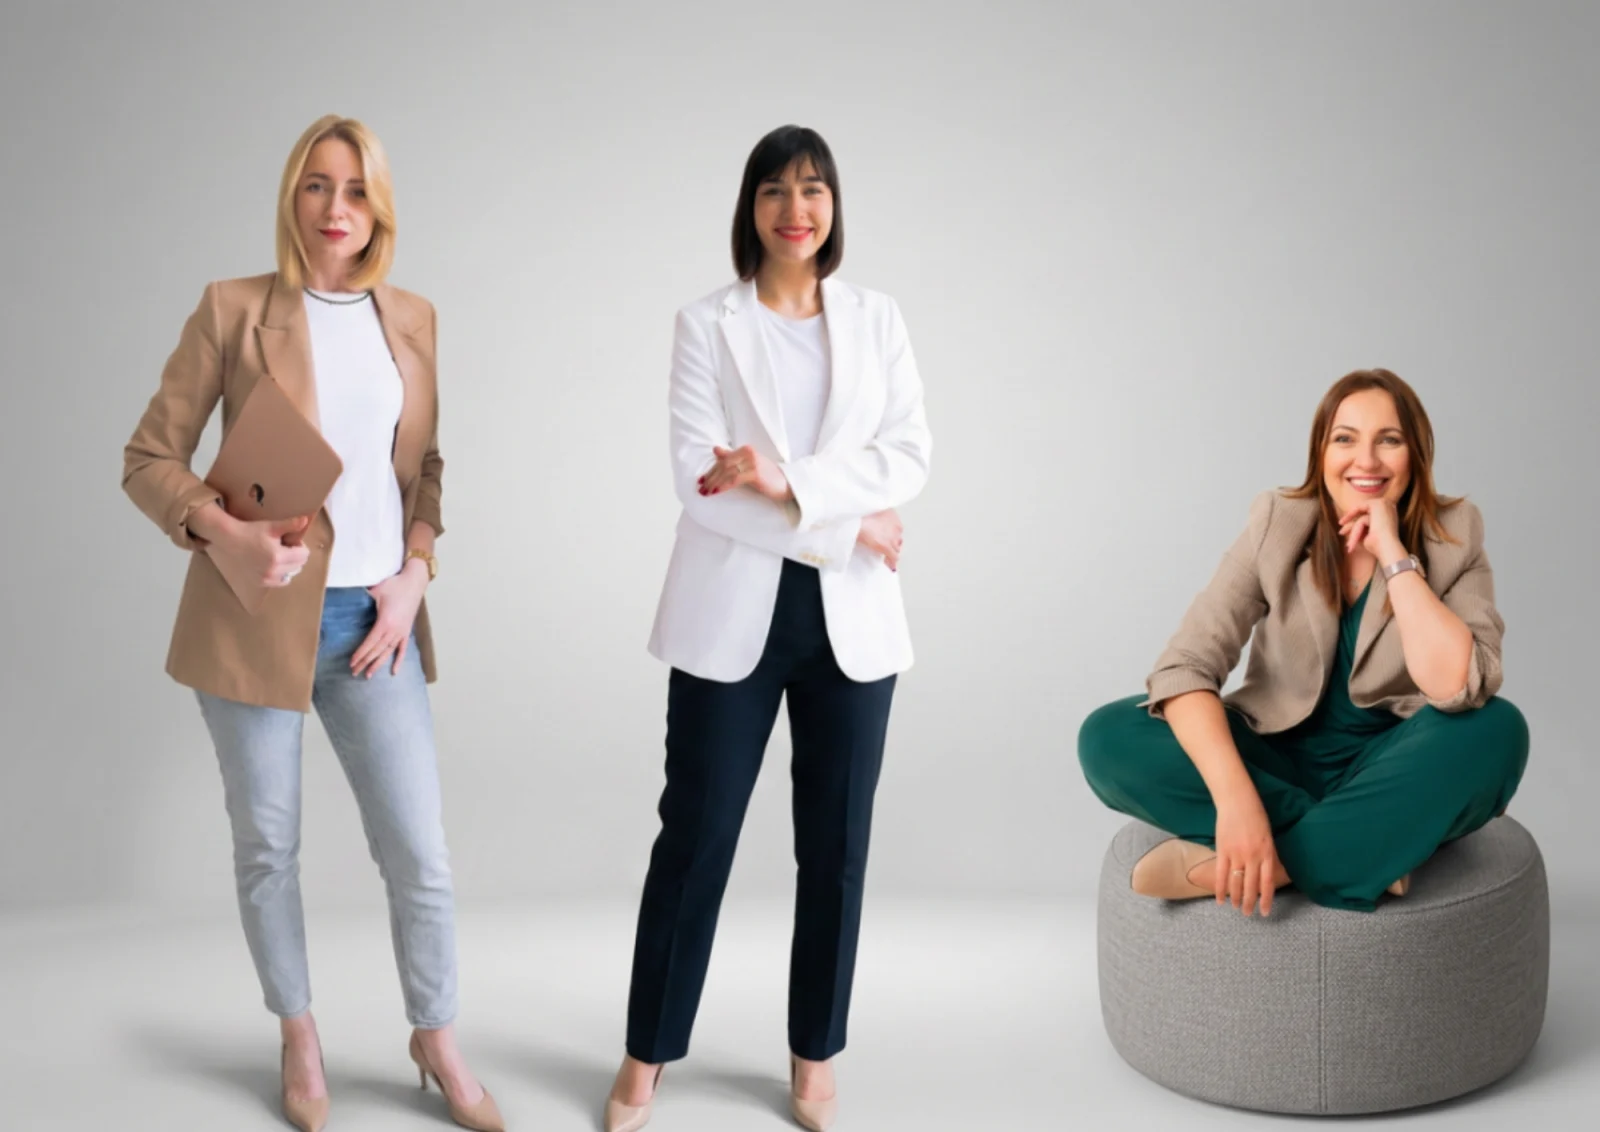
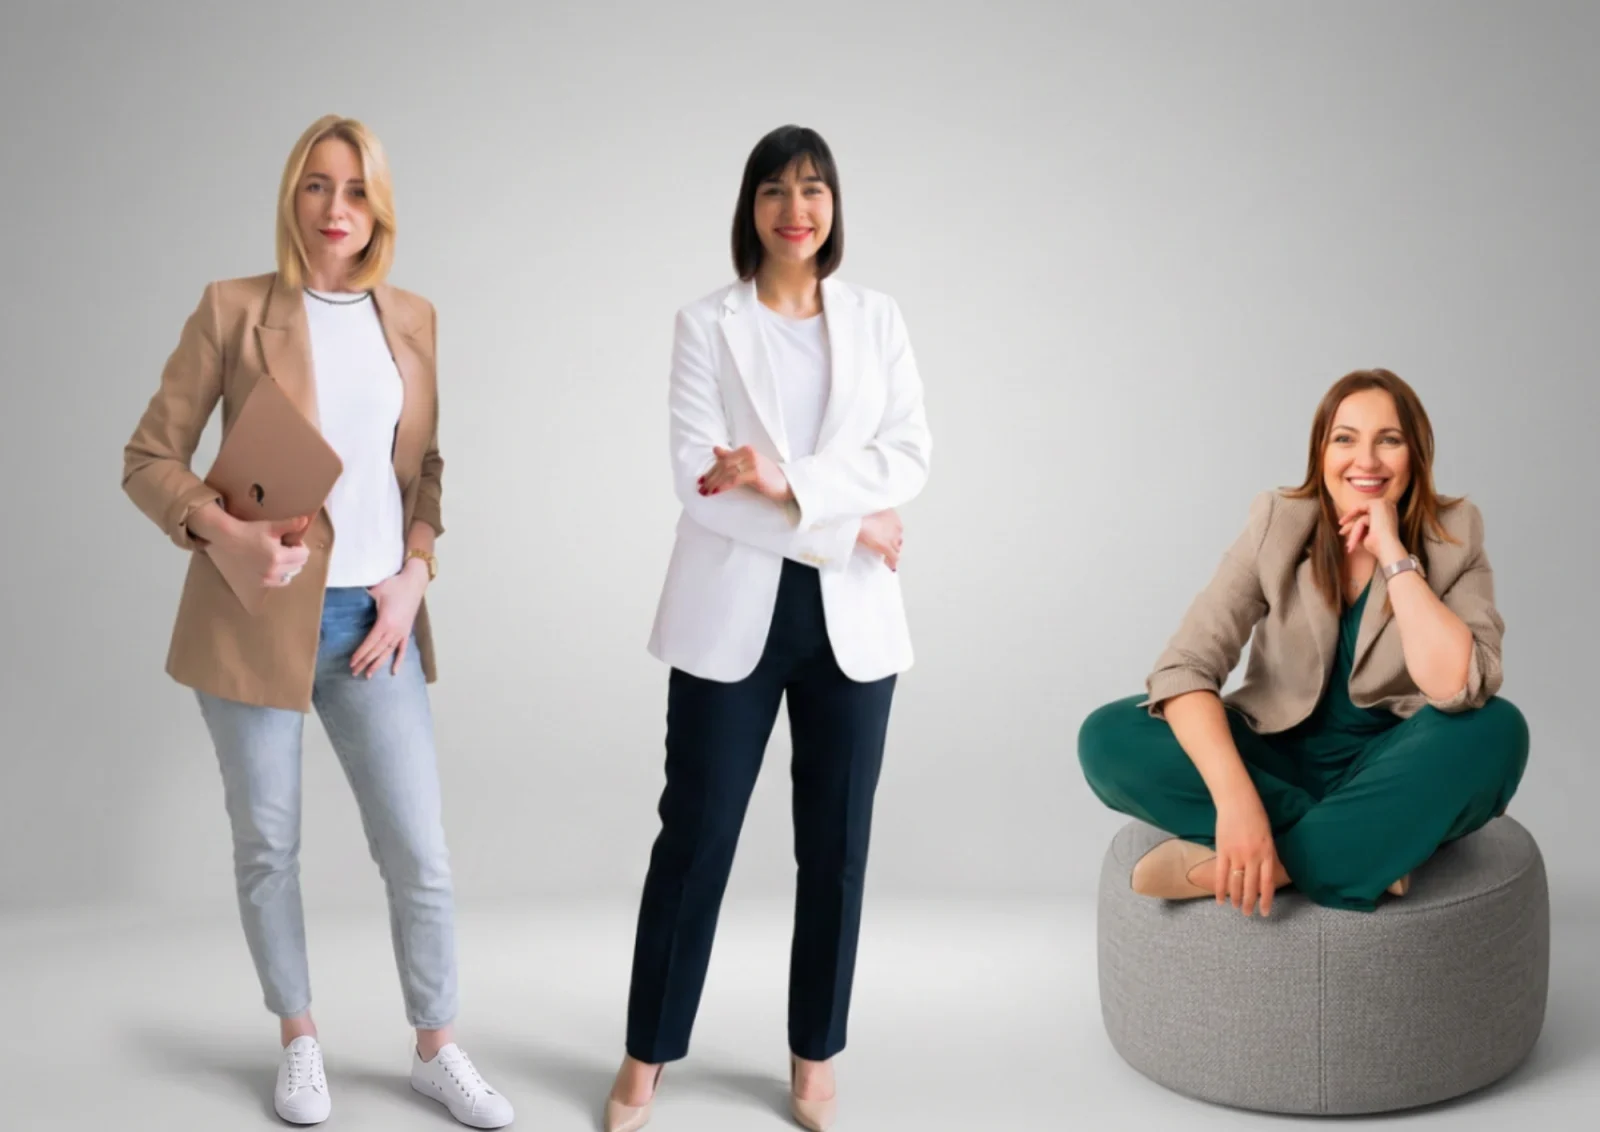
Poprawki Marty z 2.11 i 4.11: formy współpracy, cenniki, trampki Asi, podpisy zespołu
- Blok „Jak możemy współpracować?” między „Co zyskujesz?” a „W jakich obszarach działamy?”, nowe teksty Marty, link karty projektu do obszarów
- Usunięty „Model elastyczny” z cennika procesów HR
- Case study: „HR na godziny” zamienione na „Outsourcing HR”, cytat klienta bez zmian
- Sparing: nowy przypis o pakietach; rekrutacja: „4-10% rocznego wynagrodzenia”, karty cennika na telefonie mieszczą dłuższe wartości
- Zdjęcie zespołu: trampki zamiast szpilek u Joanny (Gemini, zmieniony tylko obszar butów)
- Podpisy zespołu: krycie liczone od sekcji; framer-motion 12 brał dla opacity natywny ScrollTimeline całej strony, więc podpisy zostawały wyszarzone

Changed region(s): [[0.1562, 0.8966, 0.3438, 1.0]]

diff --git a/src/data/services.ts b/src/data/services.ts
@@ -160,10 +160,10 @@ export const services: Service[] = [
           "Success fee",
         ],
         rows: [
-          ["Junior / mid", "3 500-4 000 zł", "3 500-4 000 zł", "4-10%"],
-          ["Mid / senior", "4 000-5 500 zł", "4 000-5 500 zł", "4-10%"],
-          ["Senior / manager", "5 500-6 000 zł", "5 500-6 000 zł", "4-10%"],
-          ["Manager", "6 000-8 000 zł", "6 000-8 000 zł", "4-10%"],
+          ["Junior / mid", "3 500-4 000 zł", "3 500-4 000 zł", "4-10% rocznego wynagrodzenia"],
+          ["Mid / senior", "4 000-5 500 zł", "4 000-5 500 zł", "4-10% rocznego wynagrodzenia"],
+          ["Senior / manager", "5 500-6 000 zł", "5 500-6 000 zł", "4-10% rocznego wynagrodzenia"],
+          ["Manager", "6 000-8 000 zł", "6 000-8 000 zł", "4-10% rocznego wynagrodzenia"],
         ],
         note: "Widełki zależą od trudności roli i sytuacji na rynku. Ustalamy je przed startem, a nie w trakcie.",
         // Opis etapów z zakładki „Cennik" w dokumencie klienta.
@@ -274,7 +274,7 @@ export const services: Service[] = [
           { name: "10 h", price: "3 000 zł", rate: "300 zł/h" },
           { name: "20 h", price: "5 600 zł", rate: "280 zł/h" },
         ],
-        note: "Pakiety od 5 do 20 godzin, do wykorzystania w ciągu kwartału. Godziny wykorzystujesz wtedy, kiedy ich potrzebujesz. Nie musisz planować spotkań z góry.",
+        note: "Przy zakupie pakietu konsultacje są do wykorzystania w ciągu kwartału. Godziny wykorzystujesz wtedy, kiedy ich potrzebujesz. Nie musisz planować spotkań z góry.",
       },
     ],
     pricingAside: {
@@ -370,14 +370,6 @@ export const services: Service[] = [
         ],
         note: "Przy większej liczbie rekrutacji ustalamy dodatkowo stałą opłatę za zatrudnienie, od 2 000 zł netto za osobę.",
       },
-      {
-        kind: "text",
-        title: "Model elastyczny: stała współpraca",
-        paragraphs: [
-          "Stałe wynagrodzenie miesięczne, które wymiennie przeznaczasz na godziny konsultacji, opłatę rekrutacyjną albo szkolenie dla zespołu. Dobre rozwiązanie, kiedy wiesz, że tematy ludzi będą wracać regularnie, ale nie wiesz jeszcze, które z nich. Wycena po warsztacie kick-starter.",
-        ],
-        chips: ["Godziny konsultacji", "Opłata rekrutacyjna", "Szkolenie dla zespołu"],
-      },
     ],
     start: {
       title: "Warsztat kick-starter",
@@ -399,17 +391,21 @@ export const services: Service[] = [
   },
 ];
 
-// Blok pod sekcją „W jakich sytuacjach możemy Ci pomóc?" na stronie głównej
-// (zmiany z dokumentu klienta z 2026-10-21).
+// Blok między „Co zyskujesz?" a „W jakich obszarach działamy?" na stronie głównej
+// (dokument klienta z 2026-10-21, kolejność i tekst od Marty z 2026-11-02).
 export const cooperationModels = {
   title: "Jak możemy współpracować?",
-  intro: "W każdym z tych obszarów możesz wybrać jedną z dwóch form.",
+  intro: "Nasi klienci najczęściej wybierają jedną z dwóch opcji.",
   models: [
     {
       id: "projekt",
       title: "Projekt HR z jasnym celem",
       text: "Na start ustalamy jeden konkretny efekt i dowozimy go w umówionym czasie. Wiesz z góry, co dostaniesz i kiedy.",
       fit: "chcesz zrekrutować konkretną osobę, stworzyć strukturę stanowisk albo uporządkować zakresy odpowiedzialności.",
+      link: {
+        label: "Zapoznaj się z obszarami poniżej i wybierz najlepszą opcję dla Twojej organizacji",
+        href: "/#uslugi",
+      },
     },
     {
       id: "outsourcing",
@@ -419,7 +415,7 @@ export const cooperationModels = {
       link: { label: "Zobacz pakiety godzinowe", href: "/uslugi/procesy-hr#cennik" },
     },
   ],
-  cta: { text: "Nie wiesz, od czego zacząć?", label: "Porozmawiajmy", href: "/kontakt" },
+  cta: { text: "Potrzebujesz inaczej dostosowanej formy współpracy?", label: "Porozmawiajmy", href: "/kontakt" },
 };
 
 export function getService(slug: string): Service | undefined {

diff --git a/src/data/caseStudies.ts b/src/data/caseStudies.ts
@@ -103,7 +103,7 @@ export const caseStudies: CaseStudy[] = [
   },
   {
     slug: "wsparcie-hr-managera-contman",
-    title: "Dedykowane wsparcie HR Managera w ramach „HR na godziny”",
+    title: "Dedykowane wsparcie HR Managera w ramach usługi „Outsourcing HR”",
     client: "Contman",
     industry: "IT — low-code i BPM",
     service: "Outsourcing HR - Twój Pierwszy Zespół HR",
@@ -129,7 +129,7 @@ export const caseStudies: CaseStudy[] = [
         heading: "Kontekst współpracy",
         paragraphs: [
           "Contman od ponad 20 lat dostarcza rozwiązania pozwalające cyfryzować dokumenty i procesy w organizacjach, specjalizuje się także w narzędziach low-code i business process management w Polsce i na świecie.",
-          "Współpracę rozpoczęliśmy w 2022 roku, kiedy ówczesna HR Managerka szukała osoby na swoje miejsce. Po kilku rozmowach rekrutacyjnych nie znalazła kandydatki odpowiadającej na wszystkie potrzeby firmy, więc postawiła na inną formę współpracy — „HR na godziny”. Po spotkaniu próbnym zdecydowaliśmy się na 3-miesięczny test, który z czasem przerodził się w stałą współpracę trwającą już ponad 1,5 roku.",
+          "Współpracę rozpoczęliśmy w 2022 roku, kiedy ówczesna HR Managerka szukała osoby na swoje miejsce. Po kilku rozmowach rekrutacyjnych nie znalazła kandydatki odpowiadającej na wszystkie potrzeby firmy, więc postawiła na inną formę współpracy — „Outsourcing HR”. Po spotkaniu próbnym zdecydowaliśmy się na 3-miesięczny test, który z czasem przerodził się w stałą współpracę trwającą już ponad 1,5 roku.",
         ],
       },
       {
@@ -147,7 +147,7 @@ export const caseStudies: CaseStudy[] = [
         heading: "Rozwiązanie",
         bullets: [
           "zaangażowanie liderów już na etapie kick-offu — spotkanie nie tylko z współwłaścicielem i HR Managerką, ale też z kluczowymi liderami",
-          "start w modelu „HR na godziny” — powtarzalne wsparcie operacyjne połączone z mniejszymi projektami wdrożeniowymi",
+          "start w modelu „Outsourcing HR” — powtarzalne wsparcie operacyjne połączone z mniejszymi projektami wdrożeniowymi",
           "konsultant z doświadczeniem w firmach IT, rozumiejący ich kontekst biznesowy",
           "budowanie relacji z zespołem poprzez regularne spotkania 1on1 i zbieranie feedbacku na bieżąco",
         ],
@@ -200,7 +200,7 @@ export const caseStudies: CaseStudy[] = [
         heading: "Kontekst współpracy",
         paragraphs: [
           "Appchance to software house specjalizujący się w projektowaniu i budowie aplikacji mobilnych oraz webowych. Łączy biznesowy profesjonalizm z nieformalnymi relacjami, a skuteczność w realizacji celów — z brakiem sztywnej hierarchii.",
-          "Współpracę rozpoczęliśmy od kilku procesów rekrutacyjnych, a z czasem — ze względu na potrzebę ułożenia procesów wewnętrznych — rozszerzyliśmy ją o usługę „HR na godziny”.",
+          "Współpracę rozpoczęliśmy od kilku procesów rekrutacyjnych, a z czasem — ze względu na potrzebę ułożenia procesów wewnętrznych — rozszerzyliśmy ją o usługę „Outsourcing HR”.",
         ],
       },
       {
@@ -219,7 +219,7 @@ export const caseStudies: CaseStudy[] = [
       {
         heading: "Rozwiązanie",
         bullets: [
-          "rozpoczęcie współpracy w modelu „HR na godziny” — stałe, operacyjne wsparcie z porządkowaniem procesów",
+          "rozpoczęcie współpracy w modelu „Outsourcing HR” — stałe, operacyjne wsparcie z porządkowaniem procesów",
           "konsultant z doświadczeniem w firmach IT, rozumiejący ich kontekst biznesowy",
           "audyt dotychczasowych działań w obszarze ludzkim i wyznaczenie priorytetów",
           "zaangażowanie liderów we wprowadzane zmiany poprzez spotkania 1on1",

diff --git a/src/components/sections/TeamSection.tsx b/src/components/sections/TeamSection.tsx
@@ -54,9 +54,12 @@ export default function TeamSection() {
   const xRight = useTransform(scrollYProgress, [0.12, 0.52], [0, 130]);
   const yCenter = useTransform(scrollYProgress, [0.12, 0.52], [0, -28]); // CEO wyżej
   const radius = useTransform(scrollYProgress, [0.12, 0.52], [0, 20]);
-  // Podpisy pojawiają się po rozjeździe, pod każdym zdjęciem
-  const capOpacity = useTransform(scrollYProgress, [0.52, 0.8], [0, 1]);
-  const capY = useTransform(scrollYProgress, [0.52, 0.8], [16, 0]);
+  // Podpisy pojawiają się po rozjeździe, pod każdym zdjęciem.
+  // Funkcja zamiast tablicy zakresów: dla opacity z tablicą framer-motion 12 przenosi
+  // animację na natywny ScrollTimeline całej strony i gubi target sekcji, więc podpisy
+  // nie dochodziły do pełnego krycia.
+  const capOpacity = useTransform(scrollYProgress, (p) => Math.min(Math.max((p - 0.5) / 0.14, 0), 1));
+  const capY = useTransform(scrollYProgress, [0.5, 0.64], [16, 0]);
 
   const xByIndex = [xLeft, undefined, xRight];
 

diff --git a/src/components/sections/CooperationModels.tsx b/src/components/sections/CooperationModels.tsx
@@ -3,7 +3,7 @@ import ScrollReveal from "@/components/animations/ScrollReveal";
 import Button from "@/components/ui/Button";
 import { cooperationModels } from "@/data/services";
 
-/** Dwie formy współpracy w kolorowym panelu, pod sekcją „W jakich sytuacjach możemy Ci pomóc?". */
+/** Dwie formy współpracy w kolorowym panelu, między „Co zyskujesz?" a „W jakich obszarach działamy?". */
 export default function CooperationModels() {
   const { title, intro, models, cta } = cooperationModels;
 
@@ -55,6 +55,7 @@ export default function CooperationModels() {
                         strokeLinecap="round"
                         strokeLinejoin="round"
                         aria-hidden
+                        className="flex-shrink-0"
                       >
                         <path d="M5 12h14M13 6l6 6-6 6" />
                       </svg>

diff --git a/src/components/sections/ServicePricing.tsx b/src/components/sections/ServicePricing.tsx
@@ -153,9 +153,9 @@ function PriceTable({ columns, rows }: { columns: string[]; rows: string[][] }) 
             <p className="font-bold text-brand-text mb-3">{row[0]}</p>
             <dl className="space-y-2">
               {columns.slice(1).map((c, i) => (
-                <div key={c} className="flex items-baseline justify-between gap-4 text-[15px]">
+                <div key={c} className="flex flex-wrap items-baseline justify-between gap-x-4 text-[15px]">
                   <dt className="text-brand-muted">{c}</dt>
-                  <dd className="text-brand-text font-medium whitespace-nowrap tabular-nums">
+                  <dd className="ml-auto text-brand-text font-medium text-right tabular-nums">
                     {row[i + 1]}
                   </dd>
                 </div>

diff --git a/src/app/page.tsx b/src/app/page.tsx
@@ -14,10 +14,10 @@ export default function Home() {
       <HeroSection />
       <ProblemSection />
       <ValueProposition />
+      <CooperationModels />
       <ServicesSection />
       <TeamSection />
       <QualificationSection />
-      <CooperationModels />
       <TestimonialsSection />
       <CtaSection />
     </>
